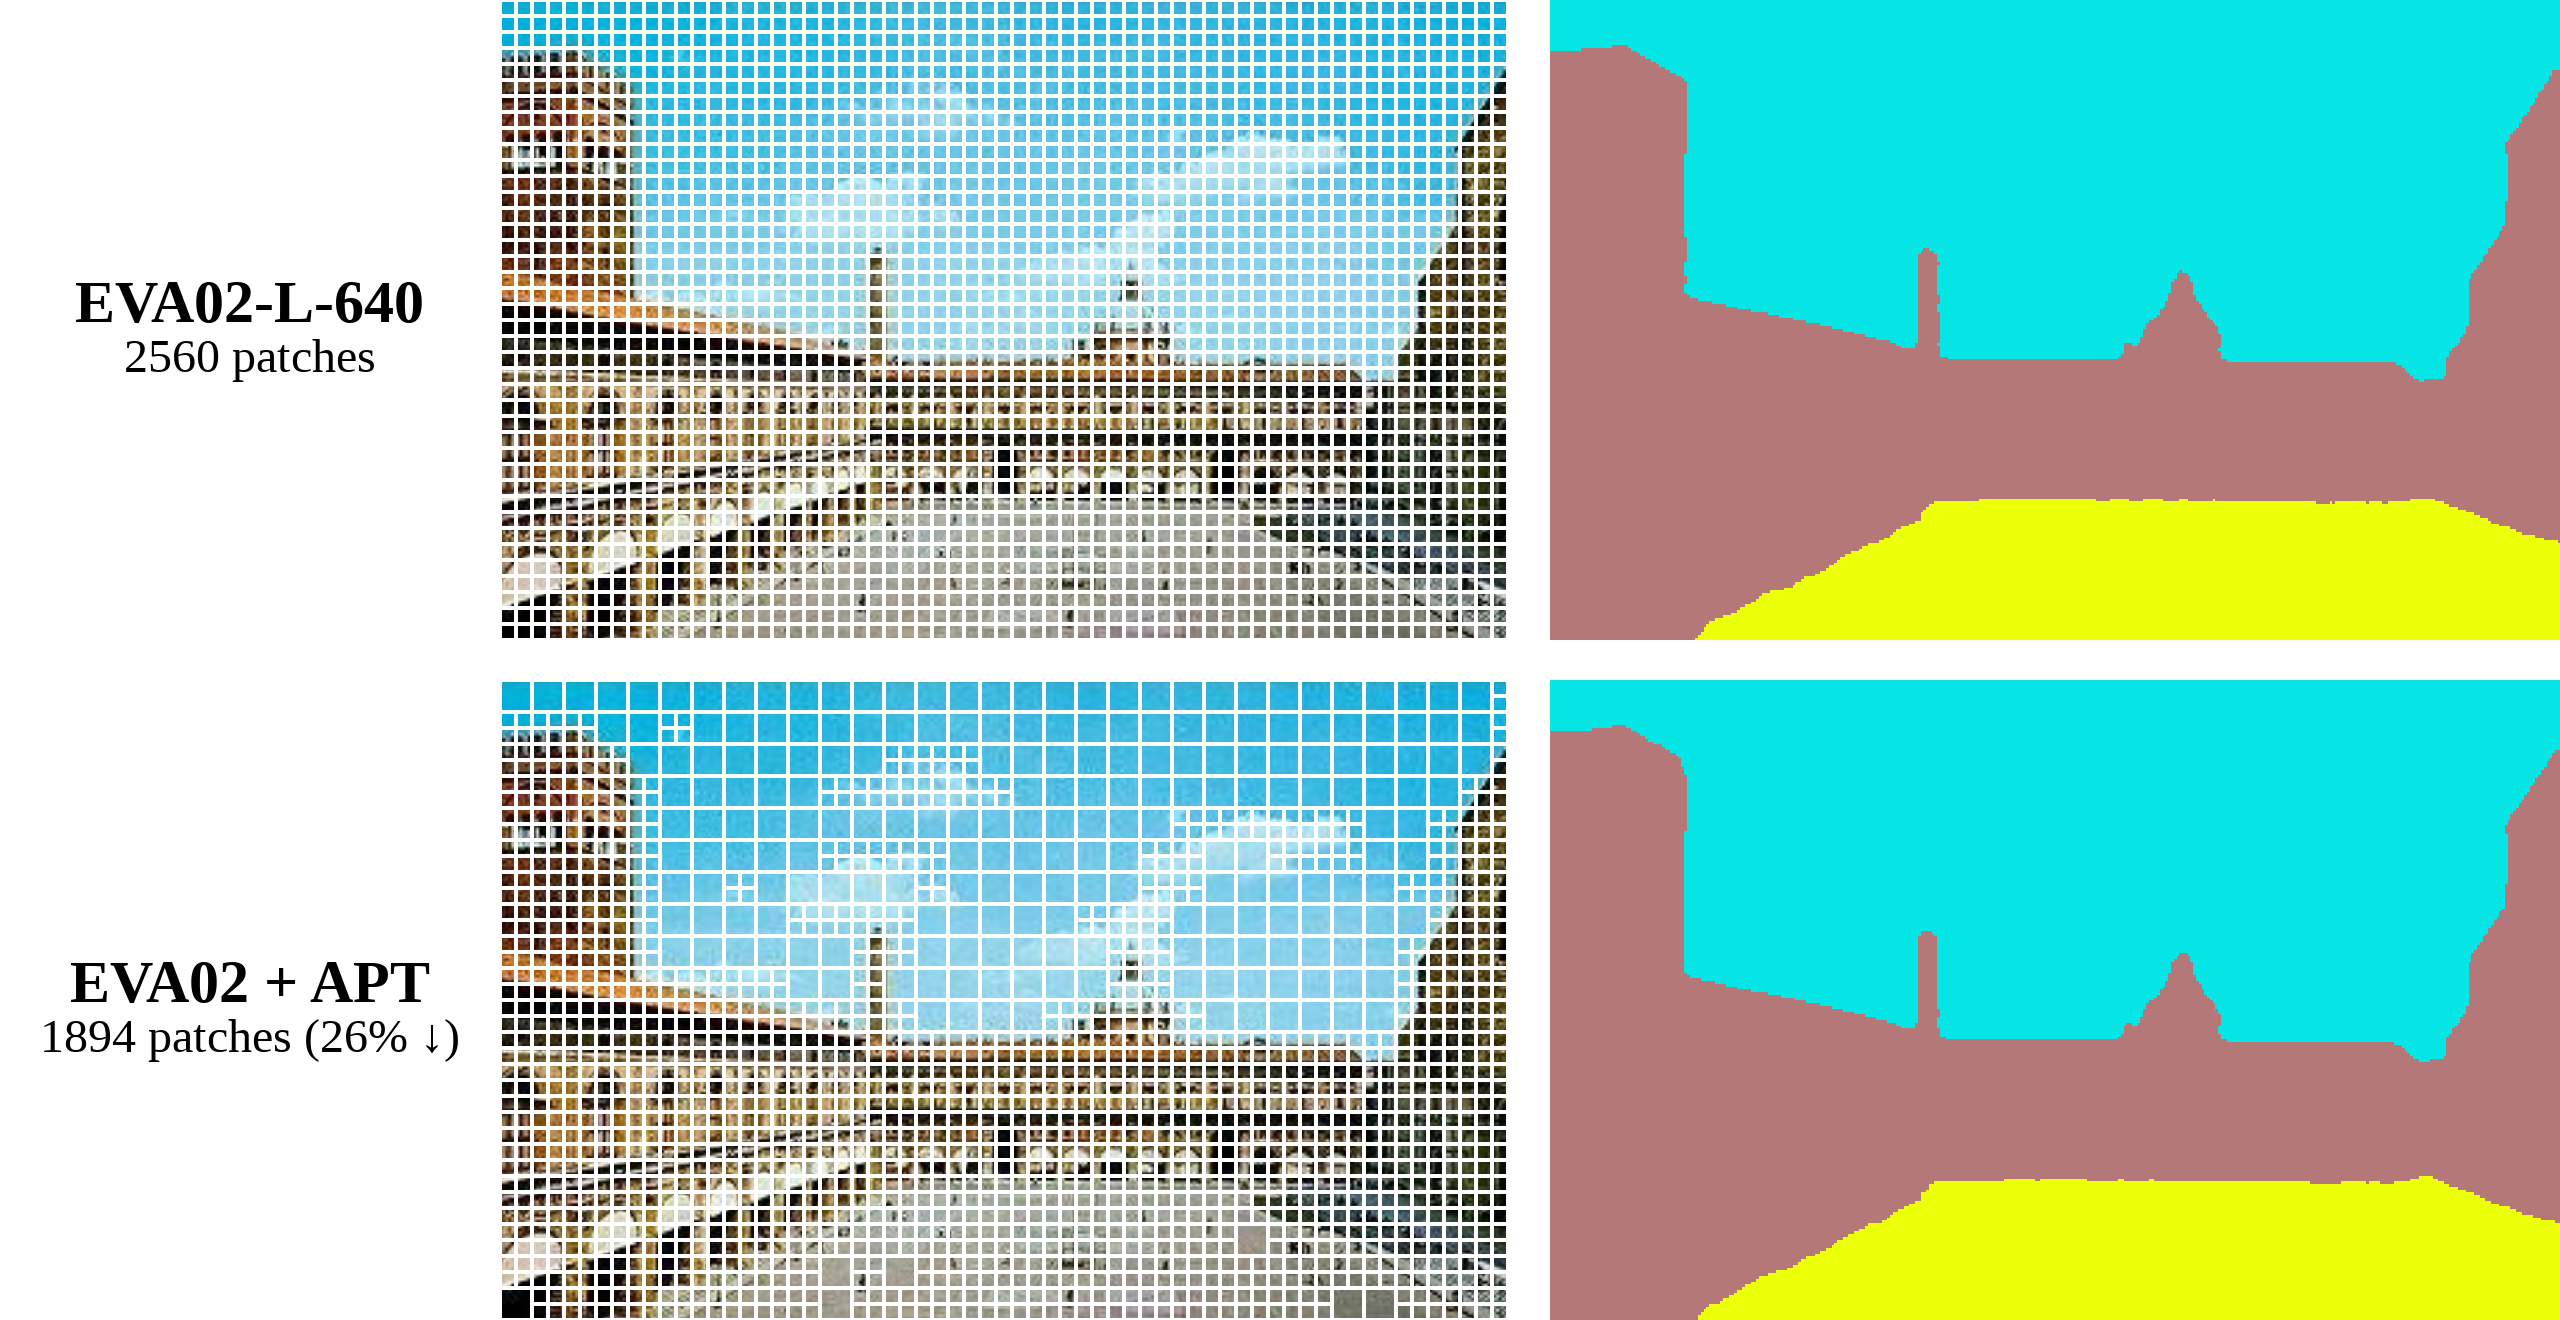
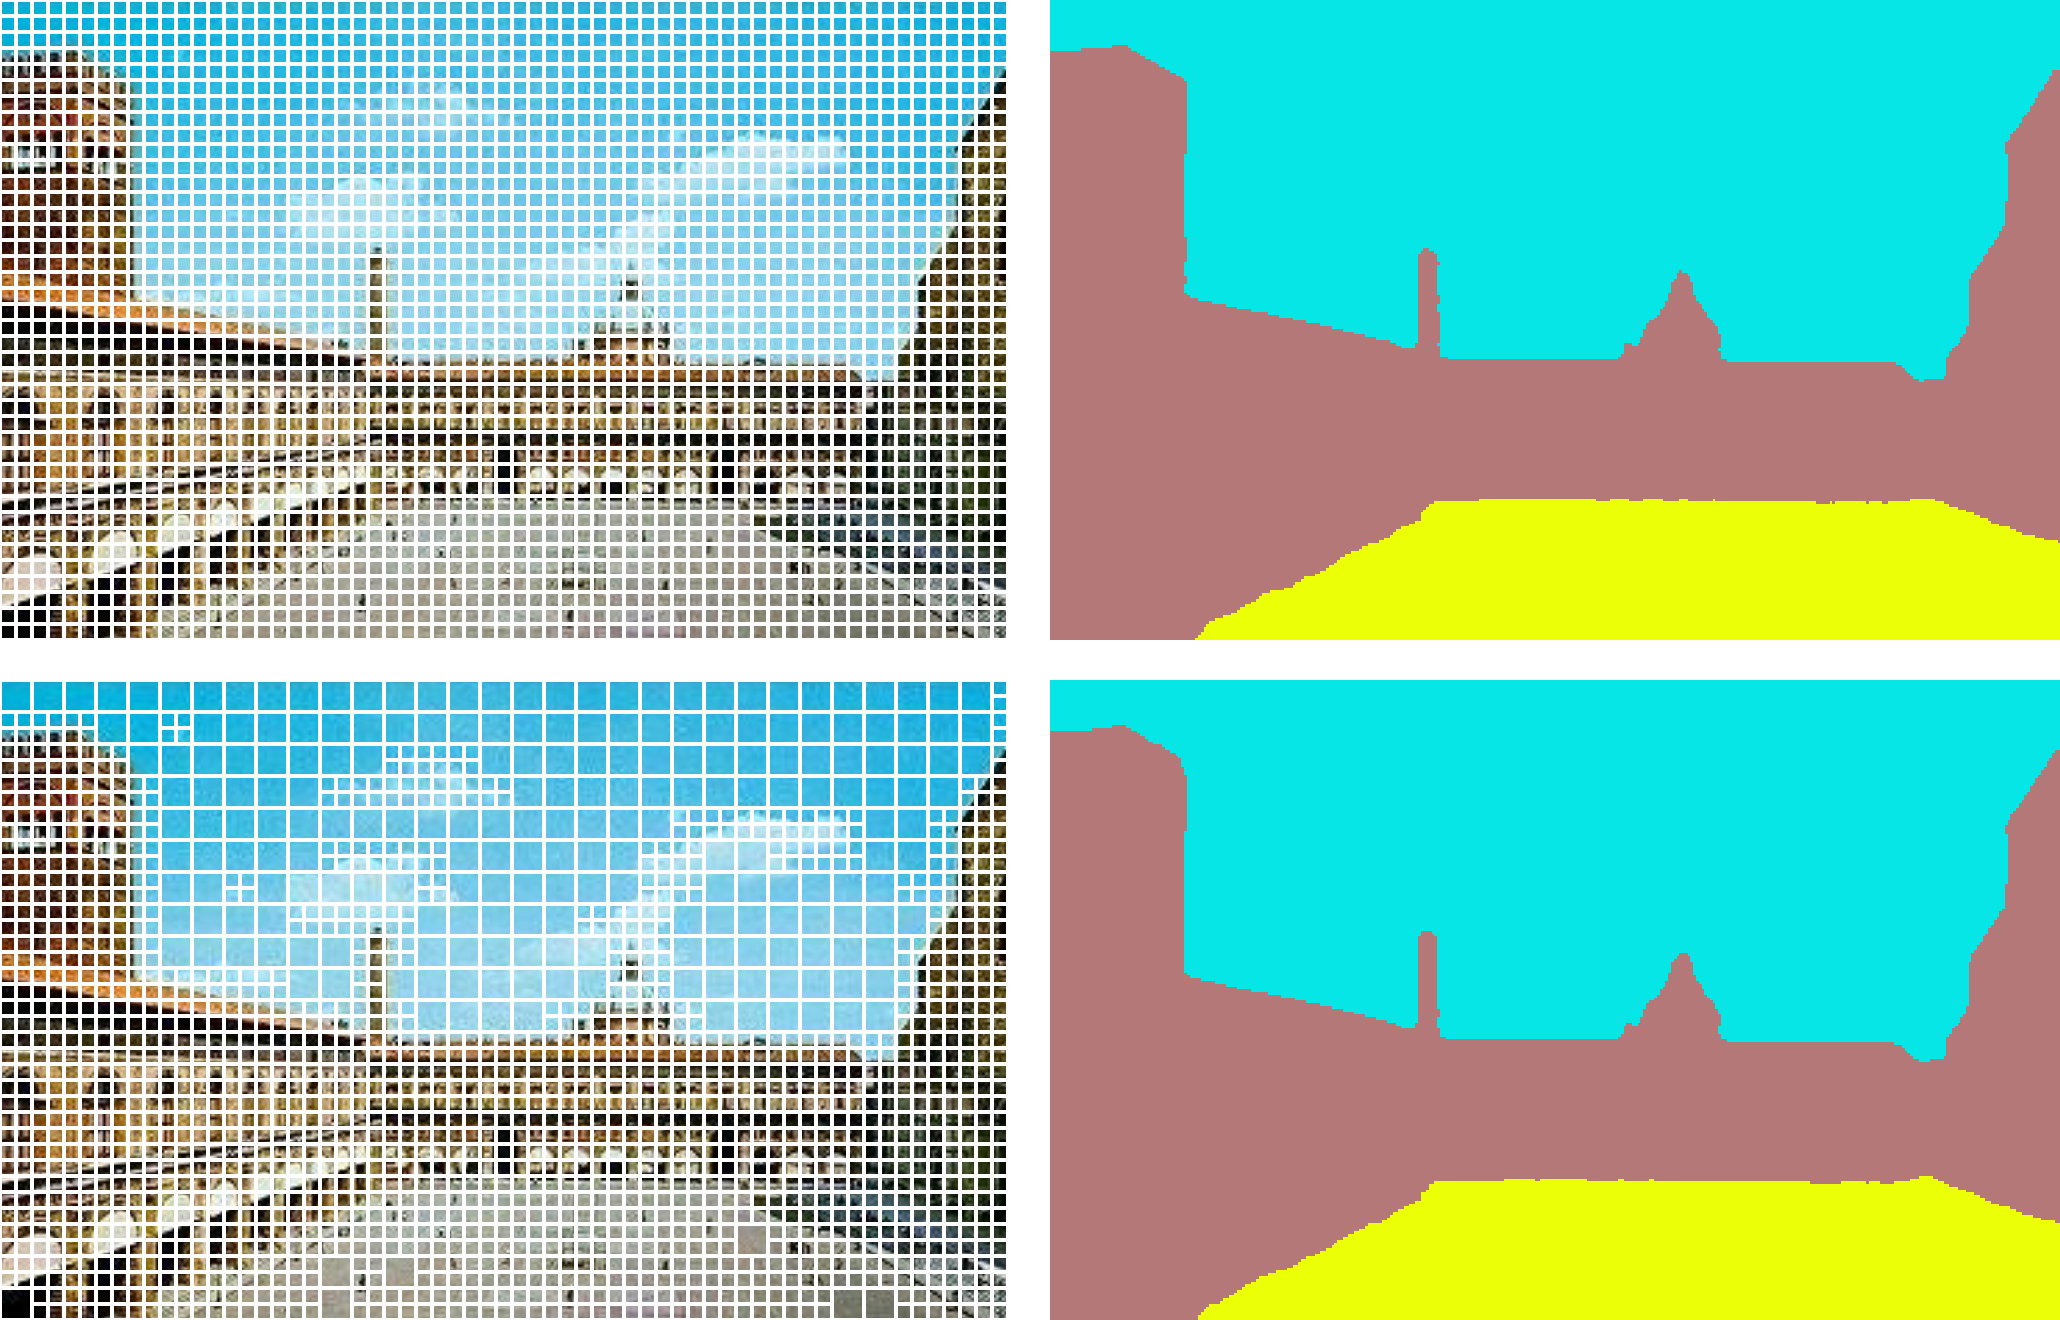
update figures

diff --git a/assets/apt-template/static/css/apt-grid.css b/assets/apt-template/static/css/apt-grid.css
@@ -86,6 +86,7 @@
   display: inline-flex;
   gap: 8px;
   z-index: 3; /* above grid and image */
+  opacity: 1; /* always visible */
 }
 
 .apt-overlay .apt-chip {
@@ -108,6 +109,16 @@
 .apt-overlay .apt-chip .apt-green {
   color: #22c55e !important; /* tailwind-ish green-500 */
   font-weight: 700;
+}
+
+/* Carousel items need relative positioning for overlays */
+.carousel .item {
+  position: relative;
+}
+
+/* Make overlays always visible in carousel items */
+.carousel .item .apt-overlay {
+  opacity: 1;
 }
 
 /* Small helper for control labels */

diff --git a/_projects/apt.md b/_projects/apt.md
@@ -310,39 +310,99 @@ category: work
       <div id="results-carousel" class="carousel results-carousel">
        <!-- <div class="item">
         <img src="/assets/apt-template/static/images/det_img1.png" alt="Detection result 1" loading="lazy"/>
+        <div class="apt-overlay">
+          <span class="apt-chip"><strong>Size:</strong> <span>1536×1023</span></span>
+          <span class="apt-chip"><strong>Base Tokens:</strong> <span>6144 tokens (97×64)</span></span>
+          <span class="apt-chip"><strong>APT Tokens:</strong> <span>5313 tokens <span class="apt-green">-14%</span></span></span>
+        </div>
       </div> -->
       <div class="item">
         <img src="/assets/apt-template/static/images/det_img2.png" alt="Detection result 2" loading="lazy"/>
+        <div class="apt-overlay">
+          <span class="apt-chip"><strong>Size:</strong> <span>1536×1025</span></span>
+          <span class="apt-chip"><strong>Base Tokens:</strong> <span>6240 tokens (97×65)</span></span>
+          <span class="apt-chip"><strong>APT Tokens:</strong> <span>3111 tokens <span class="apt-green">-50%</span></span></span>
+        </div>
       </div>
       <div class="item">
         <img src="/assets/apt-template/static/images/det_img3.png" alt="Detection result 3" loading="lazy"/>
+        <div class="apt-overlay">
+          <span class="apt-chip"><strong>Size:</strong> <span>1536×1022</span></span>
+          <span class="apt-chip"><strong>Base Tokens:</strong> <span>6144 tokens (97×64)</span></span>
+          <span class="apt-chip"><strong>APT Tokens:</strong> <span>5205 tokens <span class="apt-green">-15%</span></span></span>
+        </div>
      </div>
      <div class="item">
       <img src="/assets/apt-template/static/images/det_img4.png" alt="Detection result 4" loading="lazy"/>
+      <div class="apt-overlay">
+        <span class="apt-chip"><strong>Size:</strong> <span>1536×1056</span></span>
+        <span class="apt-chip"><strong>Base Tokens:</strong> <span>6336 tokens (96×66)</span></span>
+        <span class="apt-chip"><strong>APT Tokens:</strong> <span>3297 tokens <span class="apt-green">-48%</span></span></span>
+      </div>
       </div>
       <div class="item">
         <img src="/assets/apt-template/static/images/det_img5.png" alt="Detection result 5" loading="lazy"/>
+        <div class="apt-overlay">
+          <span class="apt-chip"><strong>Size:</strong> <span>1536×1022</span></span>
+          <span class="apt-chip"><strong>Base Tokens:</strong> <span>6144 tokens (97×64)</span></span>
+          <span class="apt-chip"><strong>APT Tokens:</strong> <span>5235 tokens <span class="apt-green">-15%</span></span></span>
+        </div>
       </div>
       <div class="item">
         <img src="/assets/apt-template/static/images/det_img6.png" alt="Detection result 6" loading="lazy"/>
+        <div class="apt-overlay">
+          <span class="apt-chip"><strong>Size:</strong> <span>1536×1027</span></span>
+          <span class="apt-chip"><strong>Base Tokens:</strong> <span>6240 tokens (97×65)</span></span>
+          <span class="apt-chip"><strong>APT Tokens:</strong> <span>3843 tokens <span class="apt-green">-38%</span></span></span>
+        </div>
       </div>
       <div class="item">
         <img src="/assets/apt-template/static/images/det_img7.png" alt="Detection result 7" loading="lazy"/>
+        <div class="apt-overlay">
+          <span class="apt-chip"><strong>Size:</strong> <span>1536×1152</span></span>
+          <span class="apt-chip"><strong>Base Tokens:</strong> <span>6912 tokens (96×72)</span></span>
+          <span class="apt-chip"><strong>APT Tokens:</strong> <span>5754 tokens <span class="apt-green">-17%</span></span></span>
+        </div>
       </div>
       <!-- <div class="item">
         <img src="/assets/apt-template/static/images/det_img8.png" alt="Detection result 8" loading="lazy"/>
+        <div class="apt-overlay">
+          <span class="apt-chip"><strong>Size:</strong> <span>1051×1536</span></span>
+          <span class="apt-chip"><strong>Base Tokens:</strong> <span>6336 tokens (66×96)</span></span>
+          <span class="apt-chip"><strong>APT Tokens:</strong> <span>4107 tokens <span class="apt-green">-35%</span></span></span>
+        </div>
       </div>
       <div class="item">
         <img src="/assets/apt-template/static/images/det_img9.png" alt="Detection result 9" loading="lazy"/>
+        <div class="apt-overlay">
+          <span class="apt-chip"><strong>Size:</strong> <span>1109×1536</span></span>
+          <span class="apt-chip"><strong>Base Tokens:</strong> <span>6720 tokens (70×96)</span></span>
+          <span class="apt-chip"><strong>APT Tokens:</strong> <span>5199 tokens <span class="apt-green">-23%</span></span></span>
+        </div>
       </div> -->
       <div class="item">
         <img src="/assets/apt-template/static/images/det_img10.png" alt="Detection result 10" loading="lazy"/>
+        <div class="apt-overlay">
+          <span class="apt-chip"><strong>Size:</strong> <span>1536×1025</span></span>
+          <span class="apt-chip"><strong>Base Tokens:</strong> <span>6240 tokens (97×65)</span></span>
+          <span class="apt-chip"><strong>APT Tokens:</strong> <span>4077 tokens <span class="apt-green">-34%</span></span></span>
+        </div>
       </div>
       <div class="item">
         <img src="/assets/apt-template/static/images/det_img11.png" alt="Detection result 11" loading="lazy"/>
+        <div class="apt-overlay">
+          <span class="apt-chip"><strong>Size:</strong> <span>1536×1018</span></span>
+          <span class="apt-chip"><strong>Base Tokens:</strong> <span>6144 tokens (97×64)</span></span>
+          <span class="apt-chip"><strong>APT Tokens:</strong> <span>4284 tokens <span class="apt-green">-30%</span></span></span>
+        </div>
       </div>
       <!-- <div class="item">
         <img src="/assets/apt-template/static/images/det_img12.png" alt="Detection result 12" loading="lazy"/>
+        <div class="apt-overlay">
+          <span class="apt-chip"><strong>Size:</strong> <span>1536×1536</span></span>
+          <span class="apt-chip"><strong>Base Tokens:</strong> <span>9216 tokens (96×96)</span></span>
+          <span class="apt-chip"><strong>APT Tokens:</strong> <span>6489 tokens <span class="apt-green">-30%</span></span></span>
+        </div>
       </div> -->
     </div>
   </div>
@@ -358,39 +418,99 @@ category: work
       <div id="results-carousel" class="carousel results-carousel">
        <div class="item">
         <img src="/assets/apt-template/static/images/seg_img1.png" alt="Segmentation result 1" loading="lazy"/>
+        <div class="apt-overlay">
+          <span class="apt-chip"><strong>Size:</strong> <span>961×640</span></span>
+          <span class="apt-chip"><strong>Base Tokens:</strong> <span>2440 tokens (61×40)</span></span>
+          <span class="apt-chip"><strong>APT Tokens:</strong> <span>2009 tokens <span class="apt-green">-18%</span></span></span>
+        </div>
       </div>
       <div class="item">
         <img src="/assets/apt-template/static/images/seg_img2.png" alt="Segmentation result 2" loading="lazy"/>
+        <div class="apt-overlay">
+          <span class="apt-chip"><strong>Size:</strong> <span>640×640</span></span>
+          <span class="apt-chip"><strong>Base Tokens:</strong> <span>1600 tokens (40×40)</span></span>
+          <span class="apt-chip"><strong>APT Tokens:</strong> <span>580 tokens <span class="apt-green">-64%</span></span></span>
+        </div>
       </div>
       <div class="item">
         <img src="/assets/apt-template/static/images/seg_img3.png" alt="Segmentation result 3" loading="lazy"/>
+        <div class="apt-overlay">
+          <span class="apt-chip"><strong>Size:</strong> <span>854×640</span></span>
+          <span class="apt-chip"><strong>Base Tokens:</strong> <span>2160 tokens (54×40)</span></span>
+          <span class="apt-chip"><strong>APT Tokens:</strong> <span>1701 tokens <span class="apt-green">-21%</span></span></span>
+        </div>
       </div>
       <div class="item">
         <img src="/assets/apt-template/static/images/seg_img4.png" alt="Segmentation result 4" loading="lazy"/>
+        <div class="apt-overlay">
+          <span class="apt-chip"><strong>Size:</strong> <span>640×640</span></span>
+          <span class="apt-chip"><strong>Base Tokens:</strong> <span>1600 tokens (40×40)</span></span>
+          <span class="apt-chip"><strong>APT Tokens:</strong> <span>823 tokens <span class="apt-green">-49%</span></span></span>
+        </div>
       </div>
       <div class="item">
         <img src="/assets/apt-template/static/images/seg_img5.png" alt="Segmentation result 5" loading="lazy"/>
+        <div class="apt-overlay">
+          <span class="apt-chip"><strong>Size:</strong> <span>640×640</span></span>
+          <span class="apt-chip"><strong>Base Tokens:</strong> <span>1600 tokens (40×40)</span></span>
+          <span class="apt-chip"><strong>APT Tokens:</strong> <span>1123 tokens <span class="apt-green">-30%</span></span></span>
+        </div>
       </div>
       <div class="item">
         <img src="/assets/apt-template/static/images/seg_img6.png" alt="Segmentation result 6" loading="lazy"/>
+        <div class="apt-overlay">
+          <span class="apt-chip"><strong>Size:</strong> <span>640×640</span></span>
+          <span class="apt-chip"><strong>Base Tokens:</strong> <span>1600 tokens (40×40)</span></span>
+          <span class="apt-chip"><strong>APT Tokens:</strong> <span>856 tokens <span class="apt-green">-46%</span></span></span>
+        </div>
       </div>
       <div class="item">
         <img src="/assets/apt-template/static/images/seg_img7.png" alt="Segmentation result 7" loading="lazy"/>
+        <div class="apt-overlay">
+          <span class="apt-chip"><strong>Size:</strong> <span>851×640</span></span>
+          <span class="apt-chip"><strong>Base Tokens:</strong> <span>2160 tokens (54×40)</span></span>
+          <span class="apt-chip"><strong>APT Tokens:</strong> <span>1638 tokens <span class="apt-green">-24%</span></span></span>
+        </div>
       </div>
       <div class="item">
         <img src="/assets/apt-template/static/images/seg_img8.png" alt="Segmentation result 8" loading="lazy"/>
+        <div class="apt-overlay">
+          <span class="apt-chip"><strong>Size:</strong> <span>1010×640</span></span>
+          <span class="apt-chip"><strong>Base Tokens:</strong> <span>2560 tokens (64×40)</span></span>
+          <span class="apt-chip"><strong>APT Tokens:</strong> <span>1894 tokens <span class="apt-green">-26%</span></span></span>
+        </div>
       </div>
       <div class="item">
         <img src="/assets/apt-template/static/images/seg_img9.png" alt="Segmentation result 9" loading="lazy"/>
+        <div class="apt-overlay">
+          <span class="apt-chip"><strong>Size:</strong> <span>640×640</span></span>
+          <span class="apt-chip"><strong>Base Tokens:</strong> <span>1600 tokens (40×40)</span></span>
+          <span class="apt-chip"><strong>APT Tokens:</strong> <span>1030 tokens <span class="apt-green">-36%</span></span></span>
+        </div>
       </div>
       <div class="item">
         <img src="/assets/apt-template/static/images/seg_img10.png" alt="Segmentation result 10" loading="lazy"/>
+        <div class="apt-overlay">
+          <span class="apt-chip"><strong>Size:</strong> <span>854×640</span></span>
+          <span class="apt-chip"><strong>Base Tokens:</strong> <span>2160 tokens (54×40)</span></span>
+          <span class="apt-chip"><strong>APT Tokens:</strong> <span>1527 tokens <span class="apt-green">-29%</span></span></span>
+        </div>
       </div>
       <div class="item">
         <img src="/assets/apt-template/static/images/seg_img11.png" alt="Segmentation result 11" loading="lazy"/>
+        <div class="apt-overlay">
+          <span class="apt-chip"><strong>Size:</strong> <span>866×640</span></span>
+          <span class="apt-chip"><strong>Base Tokens:</strong> <span>2200 tokens (55×40)</span></span>
+          <span class="apt-chip"><strong>APT Tokens:</strong> <span>1610 tokens <span class="apt-green">-27%</span></span></span>
+        </div>
       </div>
       <div class="item">
         <img src="/assets/apt-template/static/images/seg_img12.png" alt="Segmentation result 12" loading="lazy"/>
+        <div class="apt-overlay">
+          <span class="apt-chip"><strong>Size:</strong> <span>960×640</span></span>
+          <span class="apt-chip"><strong>Base Tokens:</strong> <span>2400 tokens (60×40)</span></span>
+          <span class="apt-chip"><strong>APT Tokens:</strong> <span>1773 tokens <span class="apt-green">-26%</span></span></span>
+        </div>
       </div>
     </div>
   </div>
@@ -415,7 +535,7 @@ category: work
       </div>
       <pre id="bibtex-code"><code>@inproceedings{choudhury2026apt,
   title={Accelerating Vision Transformers With Adaptive Patch Sizes},
-  author={Rohan Choudhury and Jung Eun Kim and Jinhyung Park and Eunho Yang and L{\'a}szl{\'o} A. Jeni and Kris M. Kitani},
+  author={Rohan Choudhury and JungEun Kim and Jinhyung Park and Eunho Yang and L{\'a}szl{\'o} A. Jeni and Kris M. Kitani},
   booktitle={International Conference on Learning Representations},
   year={2026},
   url={/apt/}
